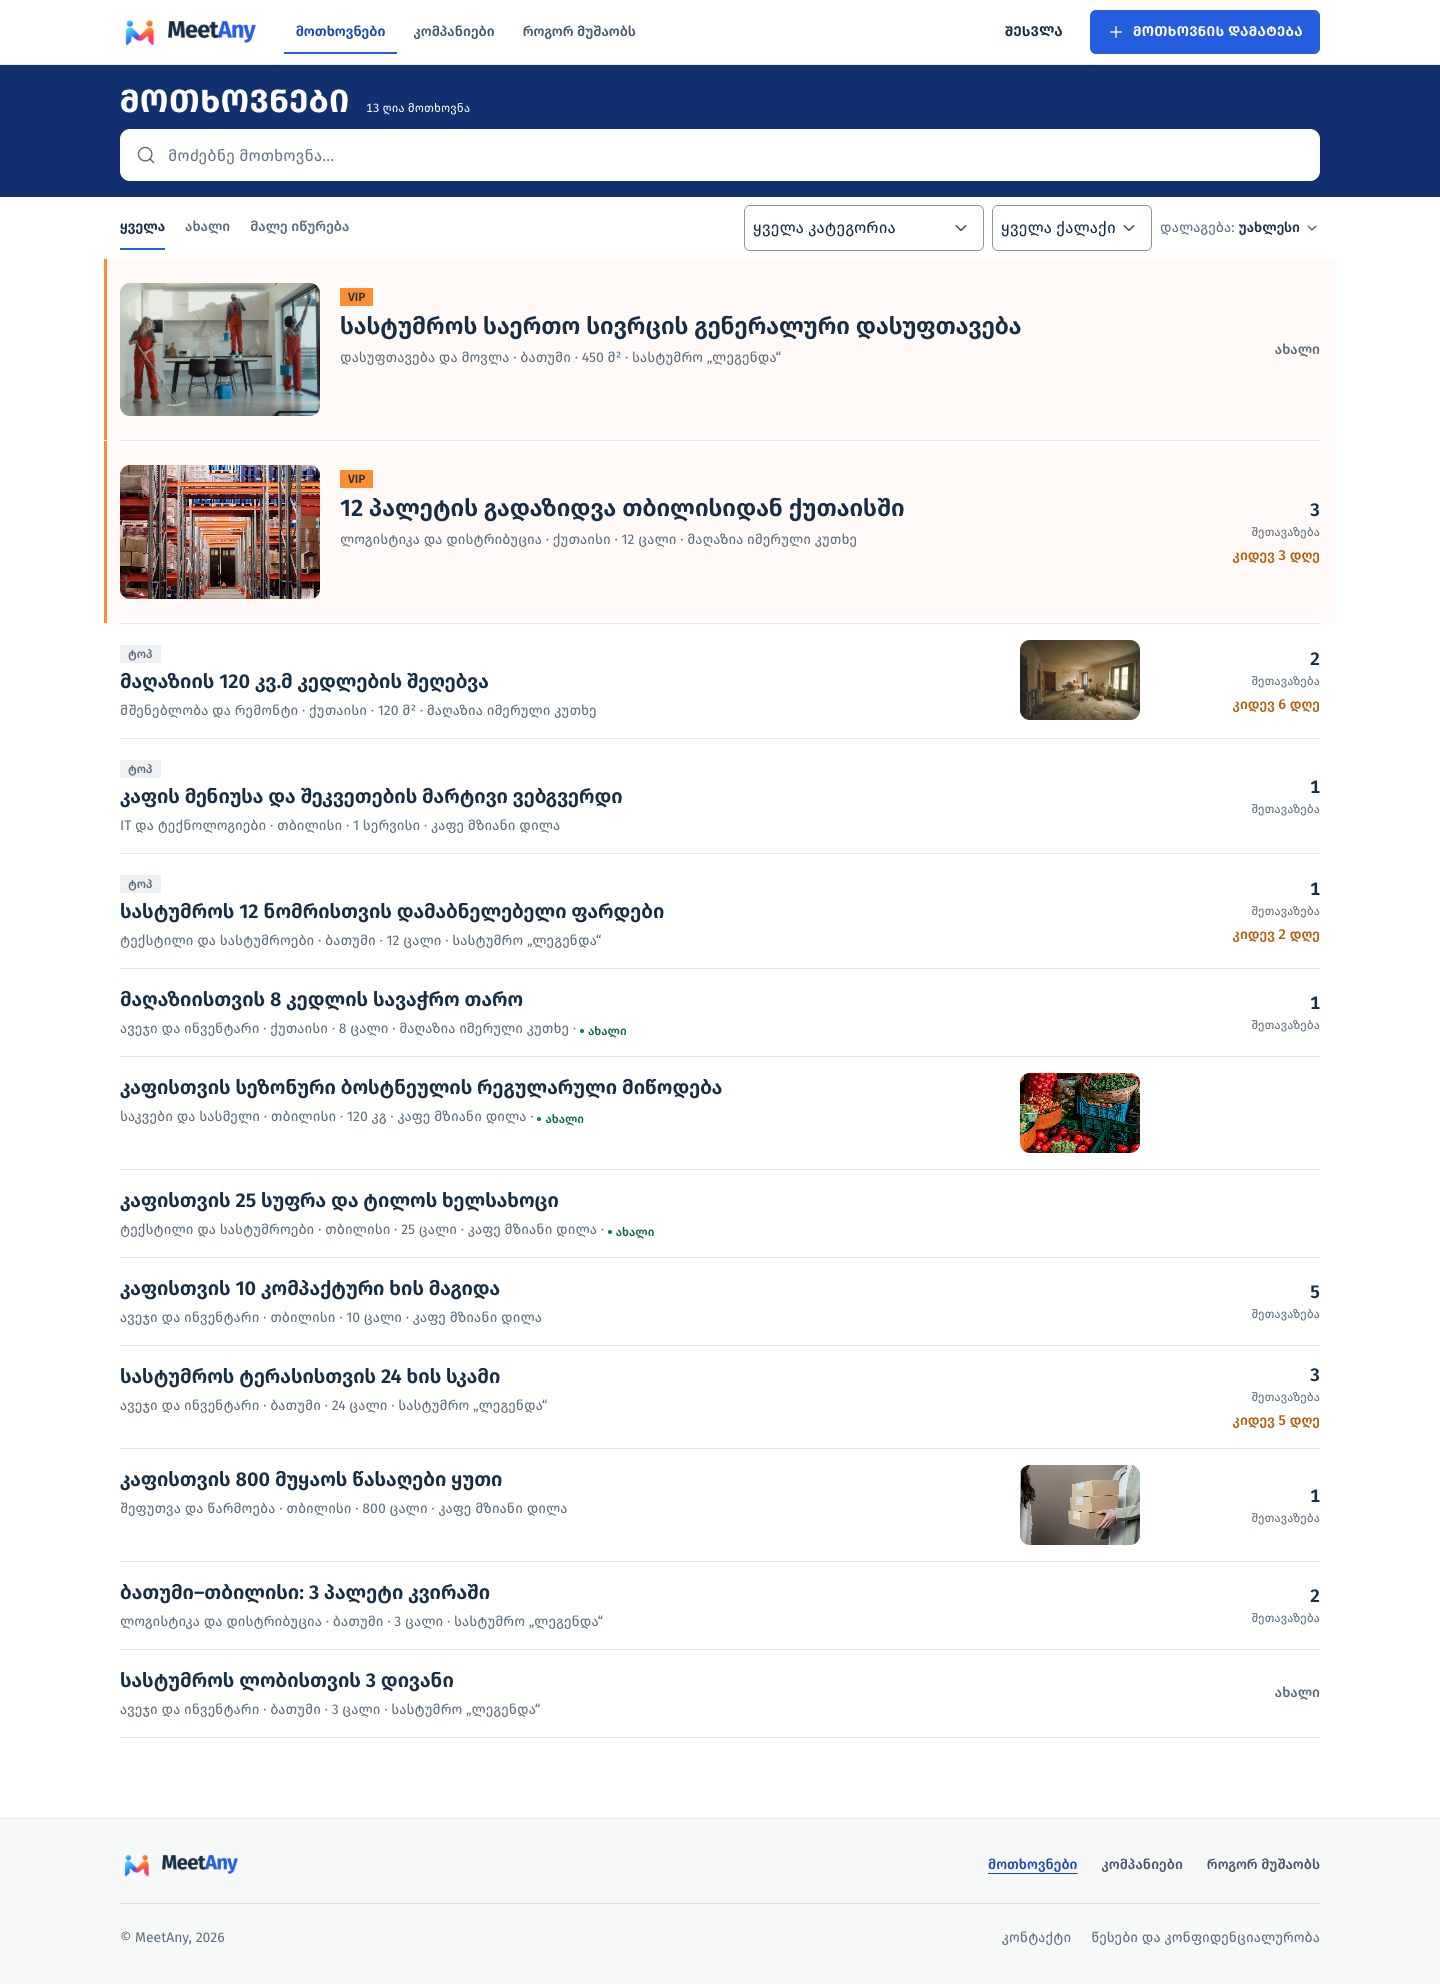
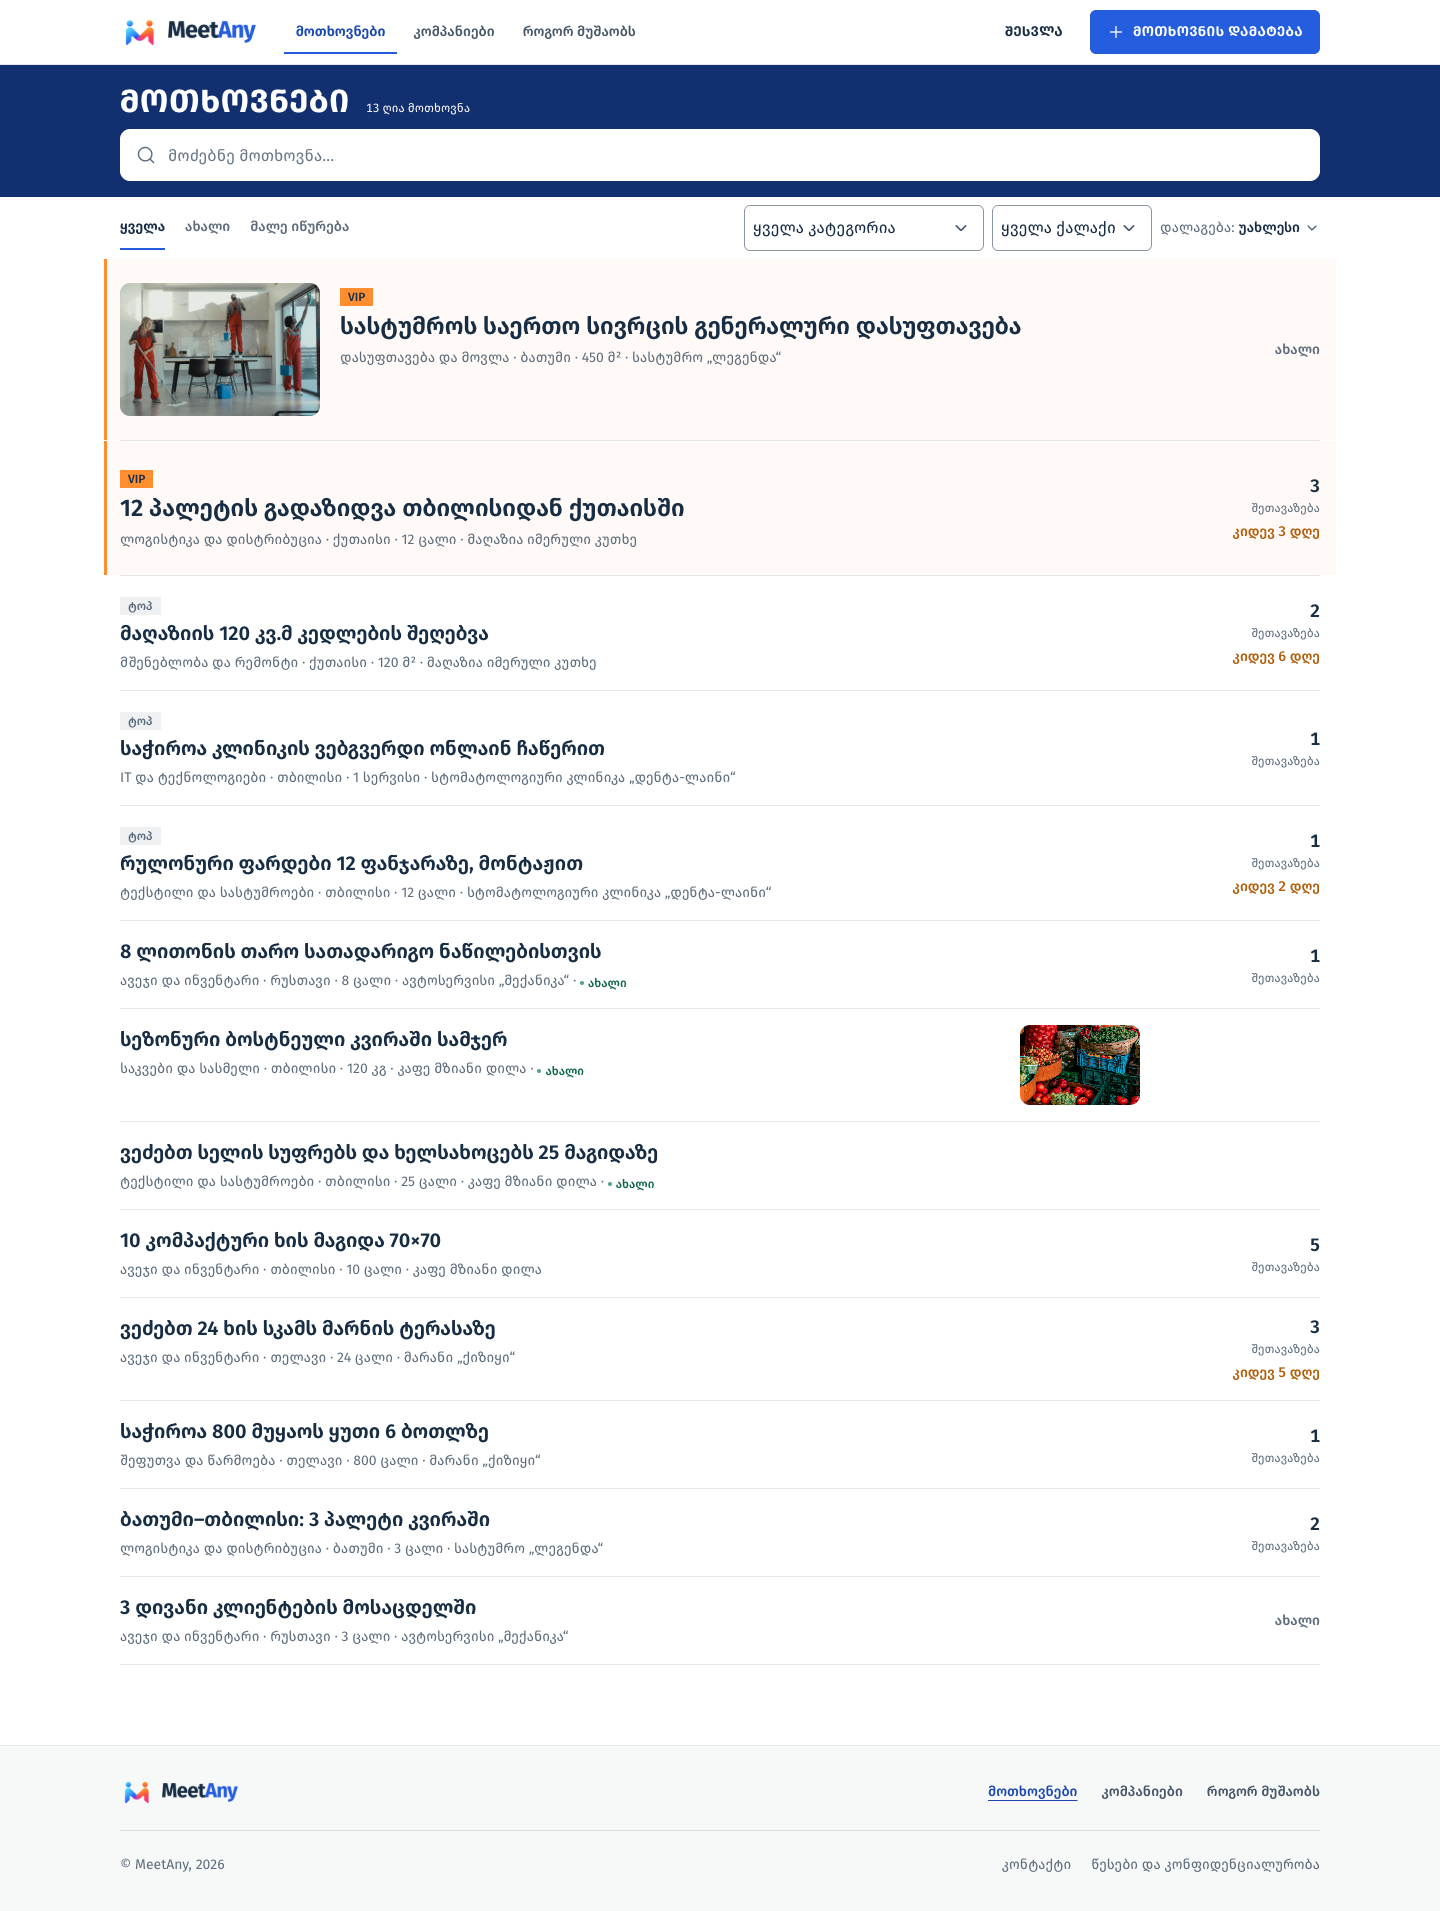
P11 T11.8b: demo content round 2 — authors, titles, matching photos
DevApp-Thread: დემო-შინაარსი 2

diff --git a/web/app/lib/tier-demo.ts b/web/app/lib/tier-demo.ts
@@ -3,7 +3,7 @@ export type RequestTier = "vip" | "top";
 
 const demoTitles: Record<RequestTier, readonly string[]> = {
   vip: ["12 პალეტის გადაზიდვა თბილისიდან ქუთაისში", "სასტუმროს საერთო სივრცის გენერალური დასუფთავება"],
-  top: ["მაღაზიის 120 კვ.მ კედლების შეღებვა", "კაფის მენიუსა და შეკვეთების მარტივი ვებგვერდი", "სასტუმროს 12 ნომრისთვის დამაბნელებელი ფარდები"],
+  top: ["მაღაზიის 120 კვ.მ კედლების შეღებვა", "საჭიროა კლინიკის ვებგვერდი ონლაინ ჩაწერით", "რულონური ფარდები 12 ფანჯარაზე"],
 };
 
 export function requestDemoTier(title: string): RequestTier | undefined {

diff --git a/web/qa/DEMO-CONTENT-GE.md b/web/qa/DEMO-CONTENT-GE.md
@@ -116,3 +116,21 @@
 **გადახვევები §ბ-დან:** ცხრილში 3 შეთ. ოთხ რიგზე იყო (R1, R2, R8, R10), ჯამურ განაწილებაში კი 3×3 და 0×4 — R8 = 1 (მხოლოდ IT კომპანია; ვებგვერდზე სხვა დარგის შეთავაზება არარეალურია), R12 = 0 (15 საათის წინ გამოქვეყნდა). R12-ის სათაური „რესტორნის 25 ფარდა-ხელსახოცი“ → „კაფისთვის 25 სუფრა და ტილოს ხელსახოცი“ (მფლობელი კაფეა; „ფარდა-ხელსახოცი“ ქართულად ბუნებრივი არაა). R7 სათაური 1000 → 800, R10 სათაური → „12 პალეტის გადაზიდვა თბილისიდან ქუთაისში“ (რაოდენობა = სათაური). პალეტები `pcs` ერთეულითაა („12 ცალი“) — ერთეული „პალეტი“ სქემაში არაა. ტექსტებიდან „ფასი“ მოხსნილია (UI-ში ფასი აღარაა). Neon Auth sign-in-ს rate limit აქვს (429) — სკრიპტს 30 წმ backoff აქვს.
 
 **შენიშვნა UI-სთვის (არ შემიცვლია):** 0-შეთავაზებიან რიგზე მარჯვნივ „ახალი“ წერია ასაკის მიუხედავად (R14 20 დღისაა) — სიტყვა სტატუსად „შეთავაზება ჯერ არაა“ ნიშნავს; ვადა მხოლოდ ≤7 დღეზე ჩანს.
+
+## ე. მეორე რაუნდი (2026-09-24, T11.8b)
+
+მიზანი: `qa/acceptance/requests.md` #5 (ფოტო ≠ სათაური) და #6 (9/13 მოთხოვნა 2 ავტორზე, „…ისთვის“ ერთი ყალიბით). იგივე `seed-demo-v2.cjs`, იგივე გარდები (auth-probe ჰოსტი + localhost :3001), ბექაპი `DEMO-ACCOUNTS.local.bak.md`, ჯერ `--dry-run`.
+
+**იდემპოტენტურობა.** თითო მოთხოვნას ledger-ში აქვს ხელმოწერა (`state.v2.sig`, sha256: ავტორი, სათაური, ტექსტი, კატეგორია, ქალაქი, ფოტო, რაოდენობა, ერთეული, მისამართი, ვადა). შეცვლილი მოთხოვნა ჯერ იშლება **მისი ამჟამინდელი მფლობელით** (ავტორი შეიძლება შეიცვალა), შემდეგ იქმნება ახლით; ყველა წაშლა ხდება შექმნამდე (5 ღია მოთხოვნის ლიმიტი, MA105). ამ გაშვებაზე ხელმოწერა ჯერ არ იყო → 14-ივე გადაიქმნა (R1 ისევ არჩეულია linen-ზე); განმეორებითი `--dry-run` → `requestsToCreate: []`.
+
+| რა | შედეგი |
+| --- | --- |
+| ახალი კლიენტები | 3: `winery` მარანი „ქიზიყი“ (თელავი, ლაშა ჯანგულაშვილი, 577…), `dental` სტომატოლოგიური კლინიკა „დენტა-ლაინი“ (თბილისი, ანა ქავთარაძე, 599…), `garage` ავტოსერვისი „მექანიკა“ (რუსთავი, ირაკლი ნოზაძე, 551…); ledger-ში იმავე ფორმატით; სულ 13 ანგარიში |
+| ავტორები | 6 კლიენტი: hotel 3 (R1 დახურული, დასუფთავება, 3 პალეტი კვირაში), cafe 3, shop 2, winery 2 (სკამები, ყუთები), dental 2 (ვებგვერდი, ფარდები), garage 2 (თაროები, დივნები); 6 მოთხოვნა გადავიდა ახალ ავტორზე, ტექსტი/ქალაქი/მისამართი და შესაბამისი შეთავაზებების ტექსტი მოერგო |
+| ფოტო | 3: R1 hotel-linen, R3 commercial-cleaning, R6 fresh-produce; R7 ყუთები, R10 გადაზიდვა, R11 შეღებვა → null (საწყობის თარო / დანგრეული ოთახი / ქალი 3 ყუთით არ ემთხვეოდა) |
+| სათაურის ფორმები | „საჭიროა …“ ×2, „ვეძებთ …“ ×2, „X ცალი Y“ (10 მაგიდა, 8 თარო, 3 დივანი), „… კვირაში სამჯერ“, „ბათუმი–თბილისი: …“, „…ისთვის“ მხოლოდ 2 |
+| რიცხვები | 14 მოთხოვნა (13 ღია + 1 არჩეული); შეთავაზებები 22 (0×4, 1×4, 2×2, 3×3, 5×1); ვადები იგივე; „ახალი“ (≤48 სთ) 4; SQL requests 14, offers 22, phones 0 (ახლებს სწორი ჰქონდათ) |
+
+`tier-demo.ts`: VIP უცვლელი; ტოპ — „მაღაზიის 120 კვ.მ კედლების შეღებვა“, „საჭიროა კლინიკის ვებგვერდი ონლაინ ჩაწერით“, „რულონური ფარდები 12 ფანჯარაზე“. `--verify` დამატებით ამოწმებს: თითო კლიენტს 2–3 მოთხოვნა, „ახალი“ 3–4. კადრები: `qa/shots/ideal-0924/requests-{1440,390}.png` (ძველი → `v4/`), pageerror 0.
+
+**დარჩა UI-ს მხარეს (არ შემიცვლია):** #1 — 0-შეთავაზებიან რიგზე მარჯვნივ „ახალი“ (მაგ. „3 დივანი…“, 20 დღისაა).
